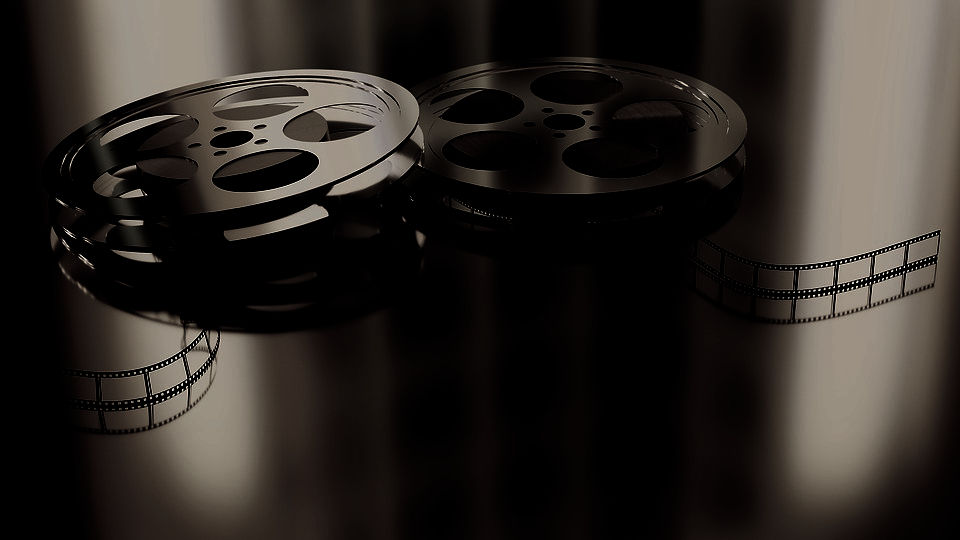
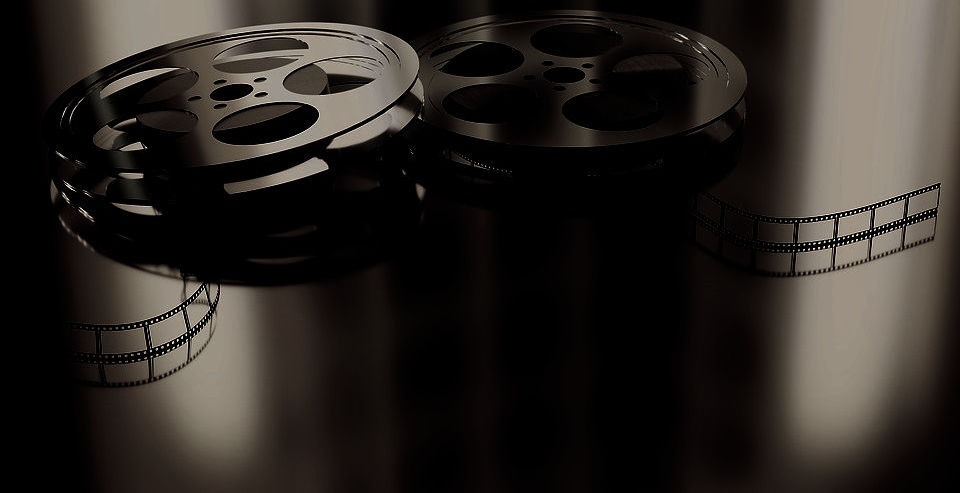
more decomposition in progress

diff --git a/src/components/common/FilmResultsContainer/index.js b/src/components/common/FilmResultsContainer/index.js
@@ -1,10 +1,32 @@
 import React, { Component } from 'react';
 import './styles.scss';
+import { FilmResultBody } from './FilmResultBody';
 
 export class FilmResultsContainer extends Component {
+  constructor(props) {
+    super(props);
+  }
   render() {
+    const filmResults = [
+      { Id: 0, Image: 'assets/film1.jpg', Title: 'First film', ReleaseDate: 2000, Genre: 'Drama' },
+      { Id: 1, Image: 'assets/film2.jpg', Title: 'Second film', ReleaseDate: 2000, Genre: 'Comedia' },
+      { Id: 2, Image: 'assets/film3.jpg', Title: 'Third film', ReleaseDate: 2000, Genre: 'Wtf' },
+      { Id: 3, Image: 'assets/film4.jpg', Title: 'Third film', ReleaseDate: 2000, Genre: 'Wtf' },
+      { Id: 4, Image: 'assets/film5.jpg', Title: 'Third film', ReleaseDate: 2000, Genre: 'Wtf' },
+      { Id: 5, Image: 'assets/film6.jpg', Title: 'Third film', ReleaseDate: 2000, Genre: 'Wtf' },
+      { Id: 6, Image: 'assets/film7.jpg', Title: 'Third film', ReleaseDate: 2000, Genre: 'Wtf' },
+      { Id: 7, Image: 'assets/film8.jpg', Title: 'Third film', ReleaseDate: 2000, Genre: 'Wtf' },
+      { Id: 8, Image: 'assets/film9.jpg', Title: 'Third film', ReleaseDate: 2000, Genre: 'Wtf' },
+    ];
+
+    const filmItems = filmResults.map((film) =>
+      <FilmResultBody key={film.Id} filmResult={film} />
+    );
+
     return (
-      <div>i am film results container</div>
+      <div className='film-results-container'>
+        { filmItems }
+      </div>
     );
   }
 }

diff --git a/src/components/common/FilmResultsContainer/FilmResultBody/index.js b/src/components/common/FilmResultsContainer/FilmResultBody/index.js
@@ -1,0 +1,22 @@
+import React from 'react';
+import { FilmResultImage } from './FilmResultImage';
+import { FilmResultReleaseDate } from './FilmResultReleaseDate';
+import './styles.scss';
+
+
+export const FilmResultBody = (props) => {
+  const film = props.filmResult;
+
+  return (
+    <div className='film-result-body'>
+      <FilmResultImage imageSrc={film.Image} imageAlt={film.Title}/>
+      <div className='film-result-body__header'>
+        <span className='film-result-body__title'>{film.Title}</span>
+        <span className='film-result-body__date'>
+          <FilmResultReleaseDate date={film.ReleaseDate} />
+        </span>
+      </div>
+      <span className='film-result-body__genre'>{film.Genre}</span>
+    </div>
+  );
+};

diff --git a/src/components/common/Switcher/index.js b/src/components/common/Switcher/index.js
@@ -1,0 +1,25 @@
+import React, { Component } from 'react';
+import { DummyButton } from 'CommonComponents/DummyButton';
+import './styles.scss';
+
+export class Switcher extends Component {
+  constructor(props) {
+    super(props);
+    this.onChange = props.onChange;
+    this.variants = props.variants;
+  }
+
+  render() {
+    const buttons = [];
+    this.variants.forEach((variantName) => {
+      buttons.push(
+          <DummyButton key={variantName} text={variantName} />
+      );
+    });
+    return (
+      <div>
+        { buttons }
+      </div>
+    );
+  }
+};

diff --git a/src/components/common/DummyInput/styles.scss b/src/components/common/DummyInput/styles.scss
@@ -1,0 +1,28 @@
+@import '~CommonStyles';
+
+.input {
+  position: relative;
+  width: 100%;
+
+  &__text {
+    padding: 5px 20px 5px 15px;
+    width: 100%;
+
+    color: $light-text-color;
+    background-color: $dark-bg-color;
+    border: none;
+    border-bottom: 1px solid $active-color;
+
+    &:focus {
+      outline: 2px solid $active-color;;
+    }
+  }
+  
+  &__icon {
+    position: absolute;
+    right: -28px;
+    top: 5px;
+
+    color: $light-text-color;
+  }
+}

diff --git a/src/components/SearchPanel/SearchInput/index.js b/src/components/SearchPanel/SearchInput/index.js
@@ -1,0 +1,15 @@
+import React, { Component } from 'react';
+import { DummyInput } from 'CommonComponents/DummyInput';
+import { DummyButton } from 'CommonComponents/DummyButton';
+import './styles.scss';
+
+export class SearchInput extends Component {
+  render() {
+    return (
+      <div className='search-input'>
+        <DummyInput />
+        <DummyButton text='My Button' size='100px' isActive={false} />
+      </div>
+    );
+  };
+}

diff --git a/src/components/common/FilmResultsContainer/FilmResultBody/styles.scss b/src/components/common/FilmResultsContainer/FilmResultBody/styles.scss
@@ -1,0 +1,26 @@
+@import '~CommonStyles';
+
+.film-result-body {
+  width: 30%;
+
+  &__header {
+    display: flex;
+    padding: 5px 0 5px;
+    justify-content: space-between;
+  }
+
+  &__title {
+    font-weight: 900;
+  }
+
+  &__date {
+    padding: 0 5px;
+    border: 1px solid $main-bg-color;
+  }
+
+  &__genre {
+    display: block;
+    padding: 0 0 30px 0;
+    color: $muted-text-color;
+  }
+}

diff --git a/src/components/SearchPanel/index.js b/src/components/SearchPanel/index.js
@@ -1,10 +1,15 @@
 import React, { Component } from 'react';
+import { SearchInput } from './SearchInput';
+
 import './styles.scss';
 
 export class SearchPanel extends Component {
   render() {
     return (
-      <div>I am search panel</div>
+      <React.Fragment>
+        <h3 className='search-panel__header'>FIND YOUR MOVIE</h3>
+        <SearchInput />
+      </React.Fragment>
     );
   }
 }

diff --git a/src/components/common/DummyButton/index.js b/src/components/common/DummyButton/index.js
@@ -1,0 +1,12 @@
+import React from 'react';
+import './styles.scss';
+
+export const DummyButton = ({ width, text, isActive }) => {
+  const style = width ? { width } : {};
+
+  return (
+    <input className={ `button ${ isActive ? 'button-active' : 'button-inactive'}` }
+      type='button' value={ text } style={ style }
+    />
+  );
+};

diff --git a/src/components/common/DummyButton/styles.scss b/src/components/common/DummyButton/styles.scss
@@ -1,0 +1,19 @@
+@import '~CommonStyles';
+
+.button {
+  padding: 5px 10px;
+  margin: 10px;
+  
+  text-transform: uppercase;
+  color: $light-text-color;
+  
+  border: none;
+
+  &-active {
+    background-color: $active-color;
+  }
+
+  &-inactive {
+    background-color: $inactive-color;
+  }
+}

diff --git a/src/components/common/PageHeader/styles.scss b/src/components/common/PageHeader/styles.scss
@@ -10,11 +10,10 @@
     z-index: 0;
 
     background-image: url('./bg.jpg');
-    background-position: center -100px;
     background-repeat: no-repeat;
     background-size: cover;
 
-    filter: blur(3.5px) brightness(30%);
+    filter: blur(3.5px) brightness(50%);
   }
 
   &__container {

diff --git a/src/components/common/DummyInput/index.js b/src/components/common/DummyInput/index.js
@@ -1,0 +1,13 @@
+import React from 'react';
+import './styles.scss';
+
+export const DummyInput = () => {
+  return (
+    <div className='input'>
+      <span className='input__icon'>&#8629;</span>
+      <input className='input__text' type='text' />
+
+    </div>
+
+  );
+};

diff --git a/src/components/common/PageFooter/index.js b/src/components/common/PageFooter/index.js
@@ -1,8 +1,12 @@
 import React from 'react';
 import { Logo } from 'CommonComponents/Logo';
+import './styles.scss';
 
 export const PageFooter = (props) => {
   return (
-    <Logo/>
+    <footer className='page-footer'>
+      <Logo/>
+    </footer>
+
   );
 };
